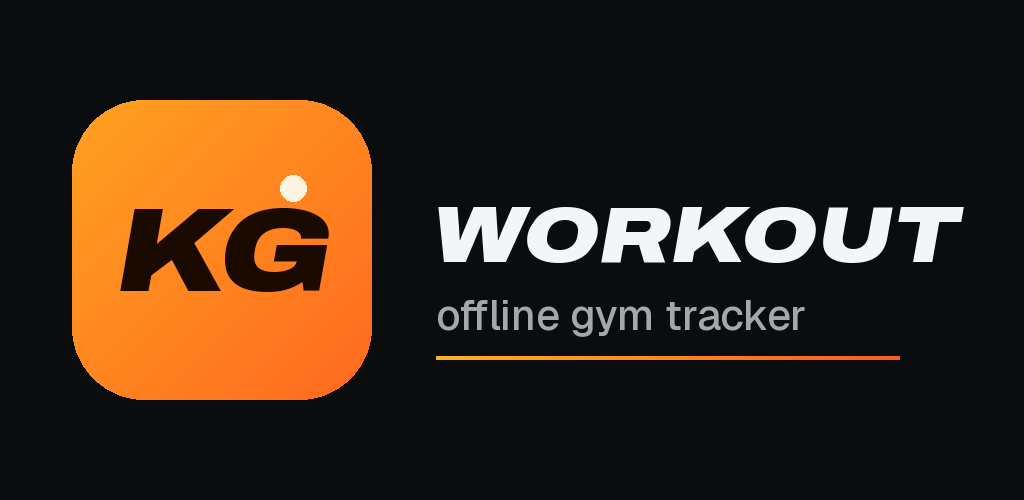
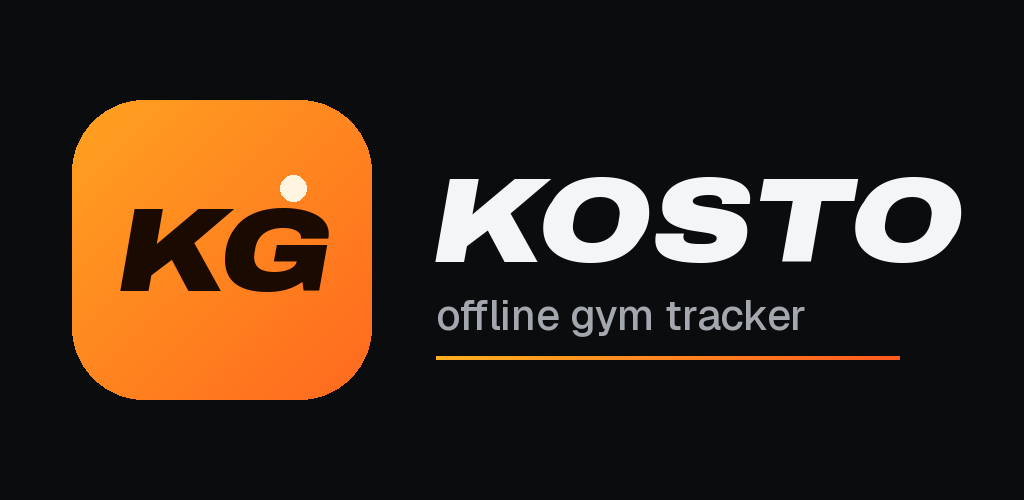
chore(store): feature graphic reads KOSTO

Changed region(s): [[0.4062, 0.33, 0.9375, 0.54]]

diff --git a/tools/store_assets.py b/tools/store_assets.py
@@ -25,6 +25,7 @@ APP_DIM = (0xA3, 0xA8, 0xAE)
 
 # The KG mark as designed on the 108-unit adaptive canvas.
 TEXT = "KG"
+APP_NAME = "KOSTO"
 AXES = {"wdth": 118, "wght": 900}
 TEXT_SIZE, TEXT_X, BASELINE = 46, 55, 70
 DOT_X, DOT_Y, DOT_R = 82, 30, 5
@@ -215,10 +216,10 @@ def feature_graphic(font, mark, path):
     draw = ImageDraw.Draw(img)
     size = 120
     title = pil_font(font, size)
-    while draw.textlength("WORKOUT", font=title) > 1024 - 432 - 56:
+    while draw.textlength(APP_NAME, font=title) > 1024 - 432 - 56:
         size -= 2
         title = pil_font(font, size)
-    draw.text((432, 262), "WORKOUT", font=title, fill=APP_INK, anchor="ls")
+    draw.text((432, 262), APP_NAME, font=title, fill=APP_INK, anchor="ls")
     subtitle = pil_font(instance(GEIST, {"wght": 500}), 42)
     draw.text((436, 330), "offline gym tracker", font=subtitle, fill=APP_DIM, anchor="ls")
     for x in range(436, 900):
